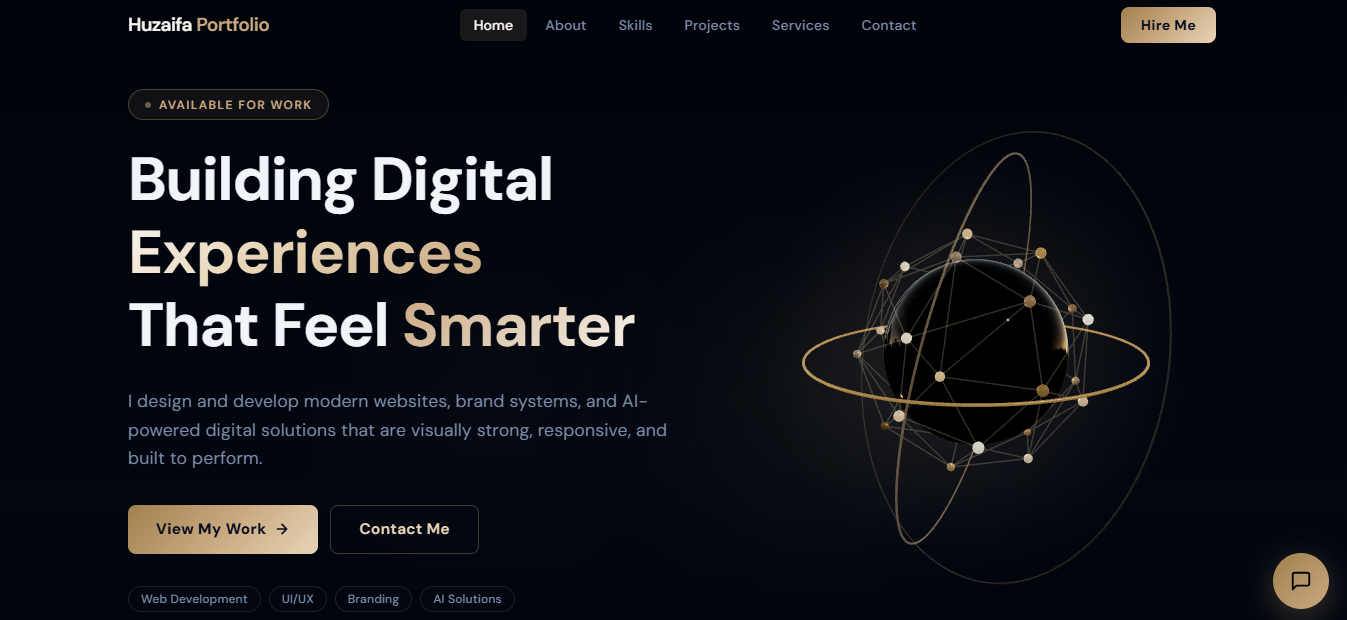
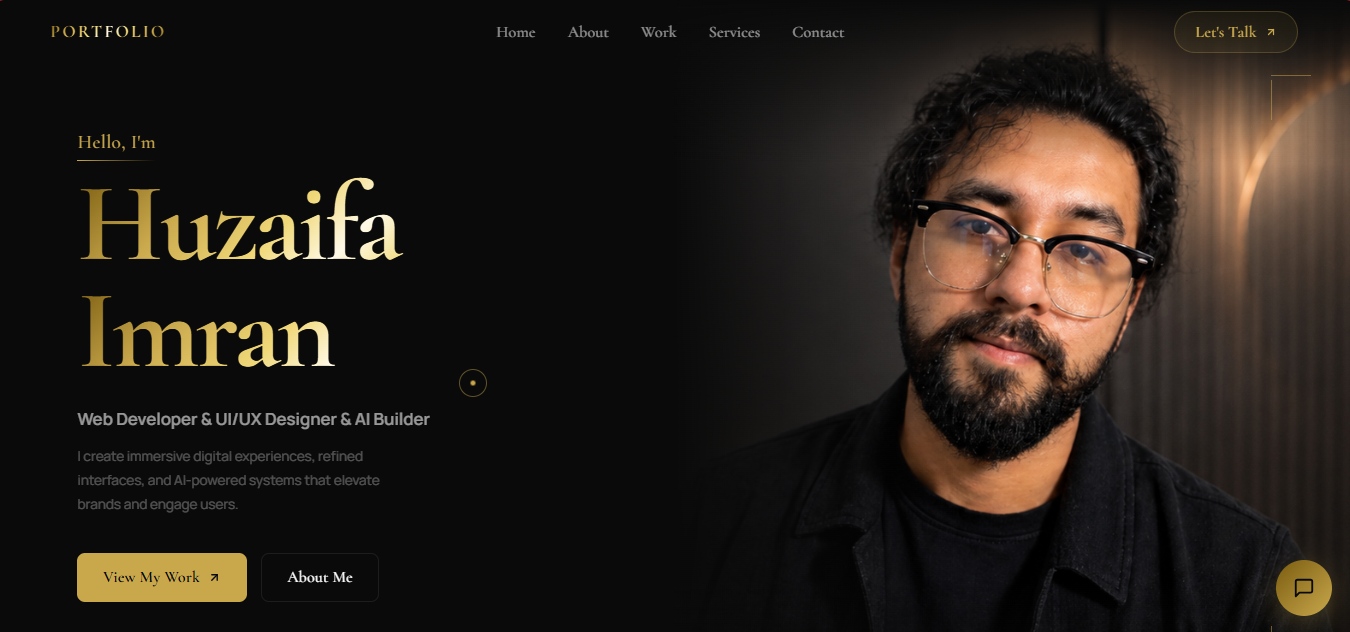
Update social/LinkedIn preview image to new hero screenshot

diff --git a/index.html b/index.html
@@ -26,7 +26,7 @@
     <meta property="og:image:type"       content="image/png" />
     <meta property="og:image:alt"        content="Huzaifa Imran — Web Developer, UI/UX Designer & AI Builder" />
     <meta property="og:image:width"      content="1350" />
-    <meta property="og:image:height"     content="656" />
+    <meta property="og:image:height"     content="632" />
 
     <!-- ── Twitter / X Card ─────────────────────────────────── -->
     <meta name="twitter:card"        content="summary_large_image" />
